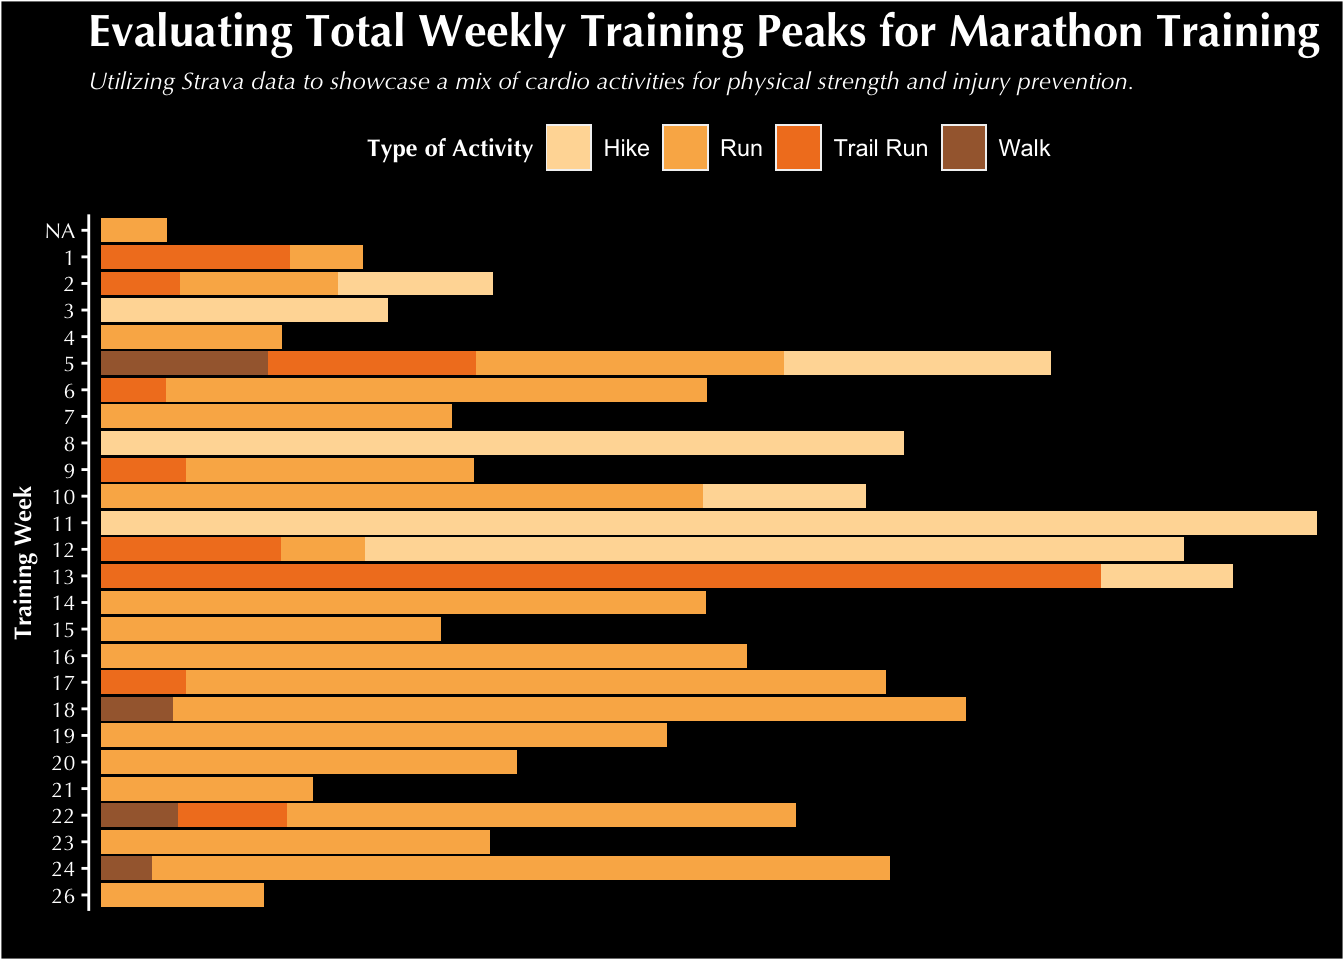
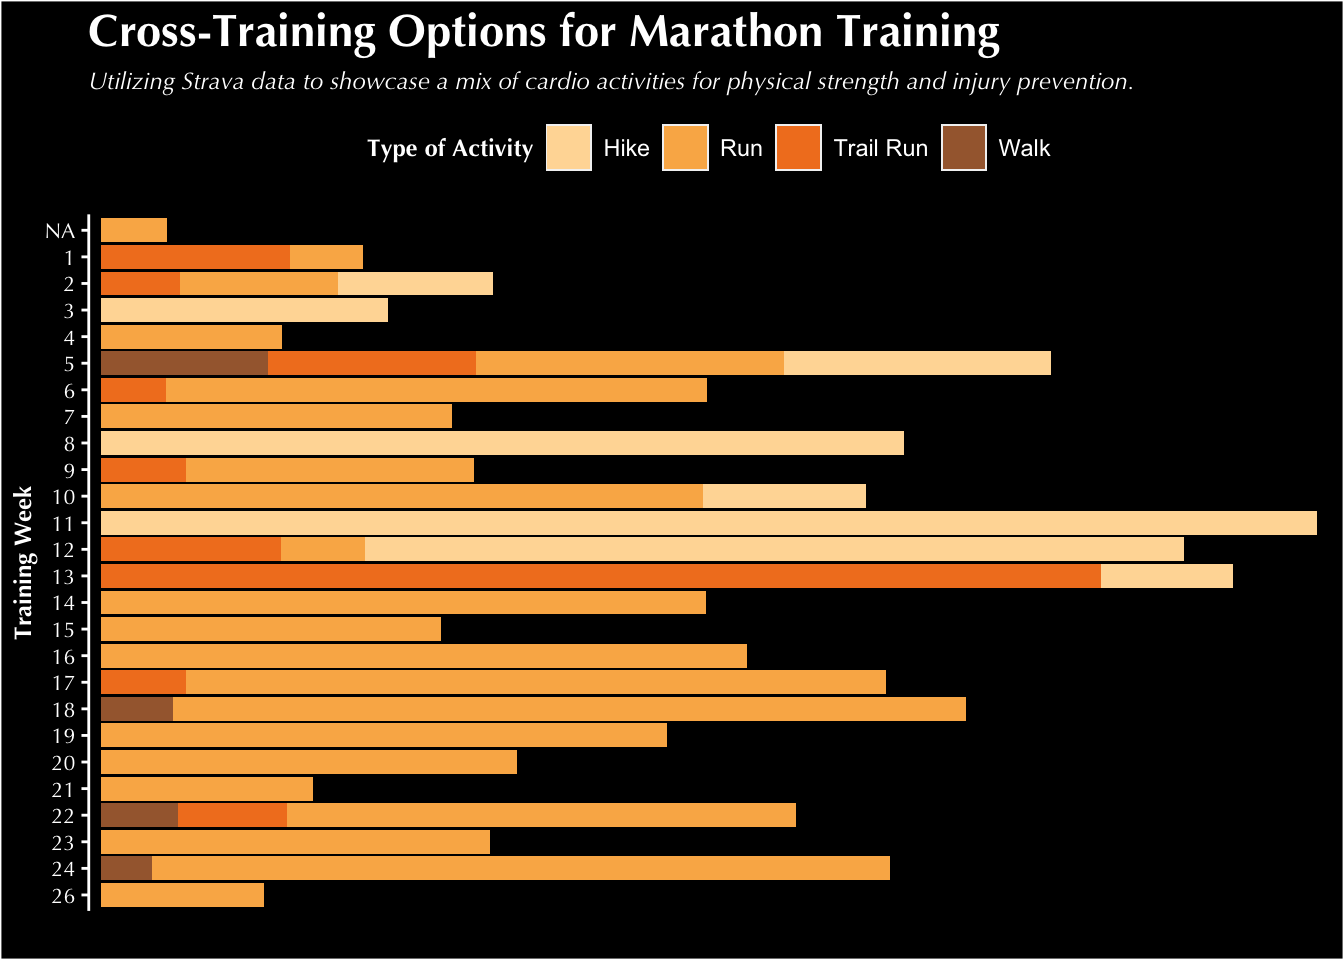
fixing typo

Changed region(s): [[0.0625, 0.0, 1.0, 0.0625]]

diff --git a/docs/posts/2024-02-28-viz-post/index.html b/docs/posts/2024-02-28-viz-post/index.html
@@ -497,7 +497,7 @@ pre > code.sourceCode > span > a:first-child::before { text-decoration: underlin
 <span id="cb6-3"><a href="#cb6-3" aria-hidden="true" tabindex="-1"></a>  <span class="fu">geom_col</span>() <span class="sc">+</span> <span class="co">#defining a bar plot</span></span>
 <span id="cb6-4"><a href="#cb6-4" aria-hidden="true" tabindex="-1"></a><span class="fu">scale_fill_paletteer_d</span>(<span class="st">"calecopal::canary"</span>) <span class="sc">+</span> <span class="co">#specifying the color scheme</span></span>
 <span id="cb6-5"><a href="#cb6-5" aria-hidden="true" tabindex="-1"></a>  <span class="fu">labs</span>(<span class="at">x =</span> <span class="st">"Training Week"</span>, <span class="co">#adding labels to graph</span></span>
-<span id="cb6-6"><a href="#cb6-6" aria-hidden="true" tabindex="-1"></a>       <span class="at">y =</span> <span class="st">"Total Distance (in miles)"</span>, <span class="at">fill =</span> <span class="st">"Type of Activity"</span>, <span class="at">title =</span> <span class="st">"Evaluating Total Weekly Training Peaks for Marathon Training"</span>, <span class="at">subtitle =</span> <span class="st">"Utilizing Strava data to showcase a mix of cardio activities for physical strength and injury prevention."</span>) <span class="sc">+</span> </span>
+<span id="cb6-6"><a href="#cb6-6" aria-hidden="true" tabindex="-1"></a>       <span class="at">y =</span> <span class="st">"Total Distance (in miles)"</span>, <span class="at">fill =</span> <span class="st">"Type of Activity"</span>, <span class="at">title =</span> <span class="st">"Cross-Training Options for Marathon Training"</span>, <span class="at">subtitle =</span> <span class="st">"Utilizing Strava data to showcase a mix of cardio activities for physical strength and injury prevention."</span>) <span class="sc">+</span> </span>
 <span id="cb6-7"><a href="#cb6-7" aria-hidden="true" tabindex="-1"></a>  <span class="fu">coord_flip</span>() <span class="sc">+</span> <span class="co">#flipping axes</span></span>
 <span id="cb6-8"><a href="#cb6-8" aria-hidden="true" tabindex="-1"></a>  <span class="fu">scale_y_discrete</span>() <span class="sc">+</span> <span class="co">#adding breaks to my y axis</span></span>
 <span id="cb6-9"><a href="#cb6-9" aria-hidden="true" tabindex="-1"></a>  <span class="fu">theme</span>(<span class="at">plot.background =</span> <span class="fu">element_rect</span>(<span class="at">fill =</span> <span class="st">"black"</span>), <span class="co">#specifying my theme</span></span>

diff --git a/docs/posts.html b/docs/posts.html
@@ -185,7 +185,7 @@ ul.task-list li input[type="checkbox"] {
 
 <div class="quarto-listing quarto-listing-container-grid" id="listing-listing">
 <div class="list grid quarto-listing-cols-3">
-<div class="g-col-1" data-index="0" data-categories="Strava,R,Data Visualization,MEDS" data-listing-date-sort="1709971200000" data-listing-file-modified-sort="1710058398787" data-listing-date-modified-sort="NaN" data-listing-reading-time-sort="26">
+<div class="g-col-1" data-index="0" data-categories="Strava,R,Data Visualization,MEDS" data-listing-date-sort="1709971200000" data-listing-file-modified-sort="1710058555829" data-listing-date-modified-sort="NaN" data-listing-reading-time-sort="26">
 <a href="./posts/2024-02-28-viz-post/index.html" class="quarto-grid-link">
 <div class="quarto-grid-item card h-100 card-left">
 <p class="card-img-top">
